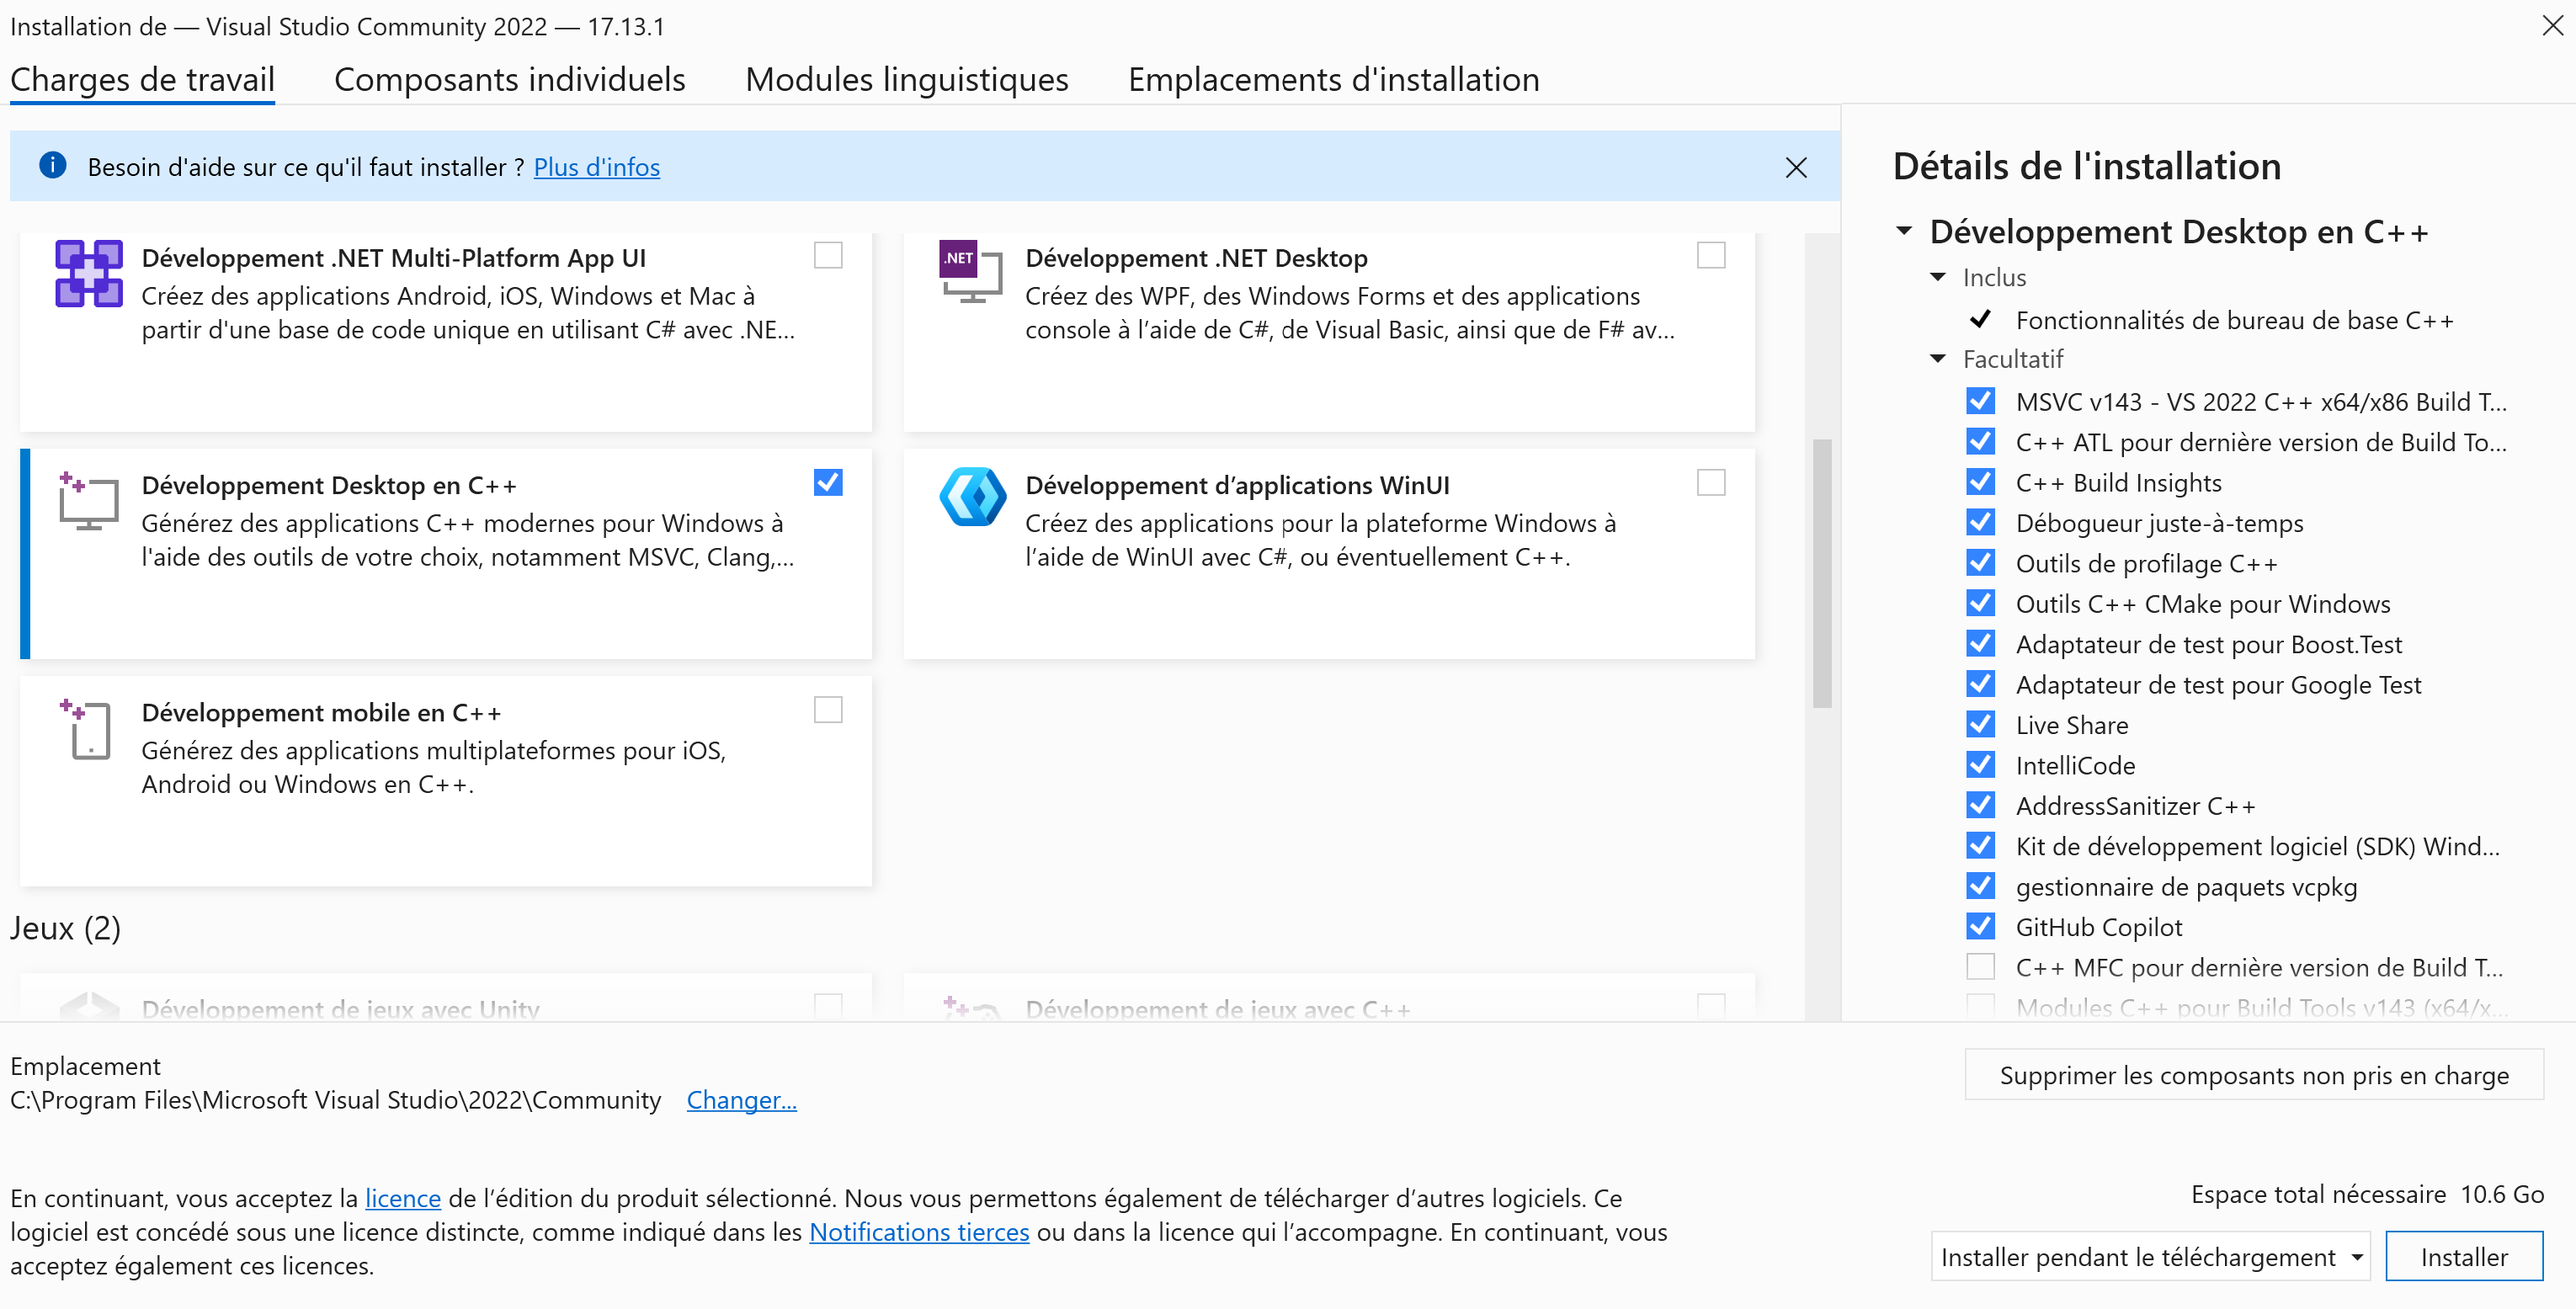
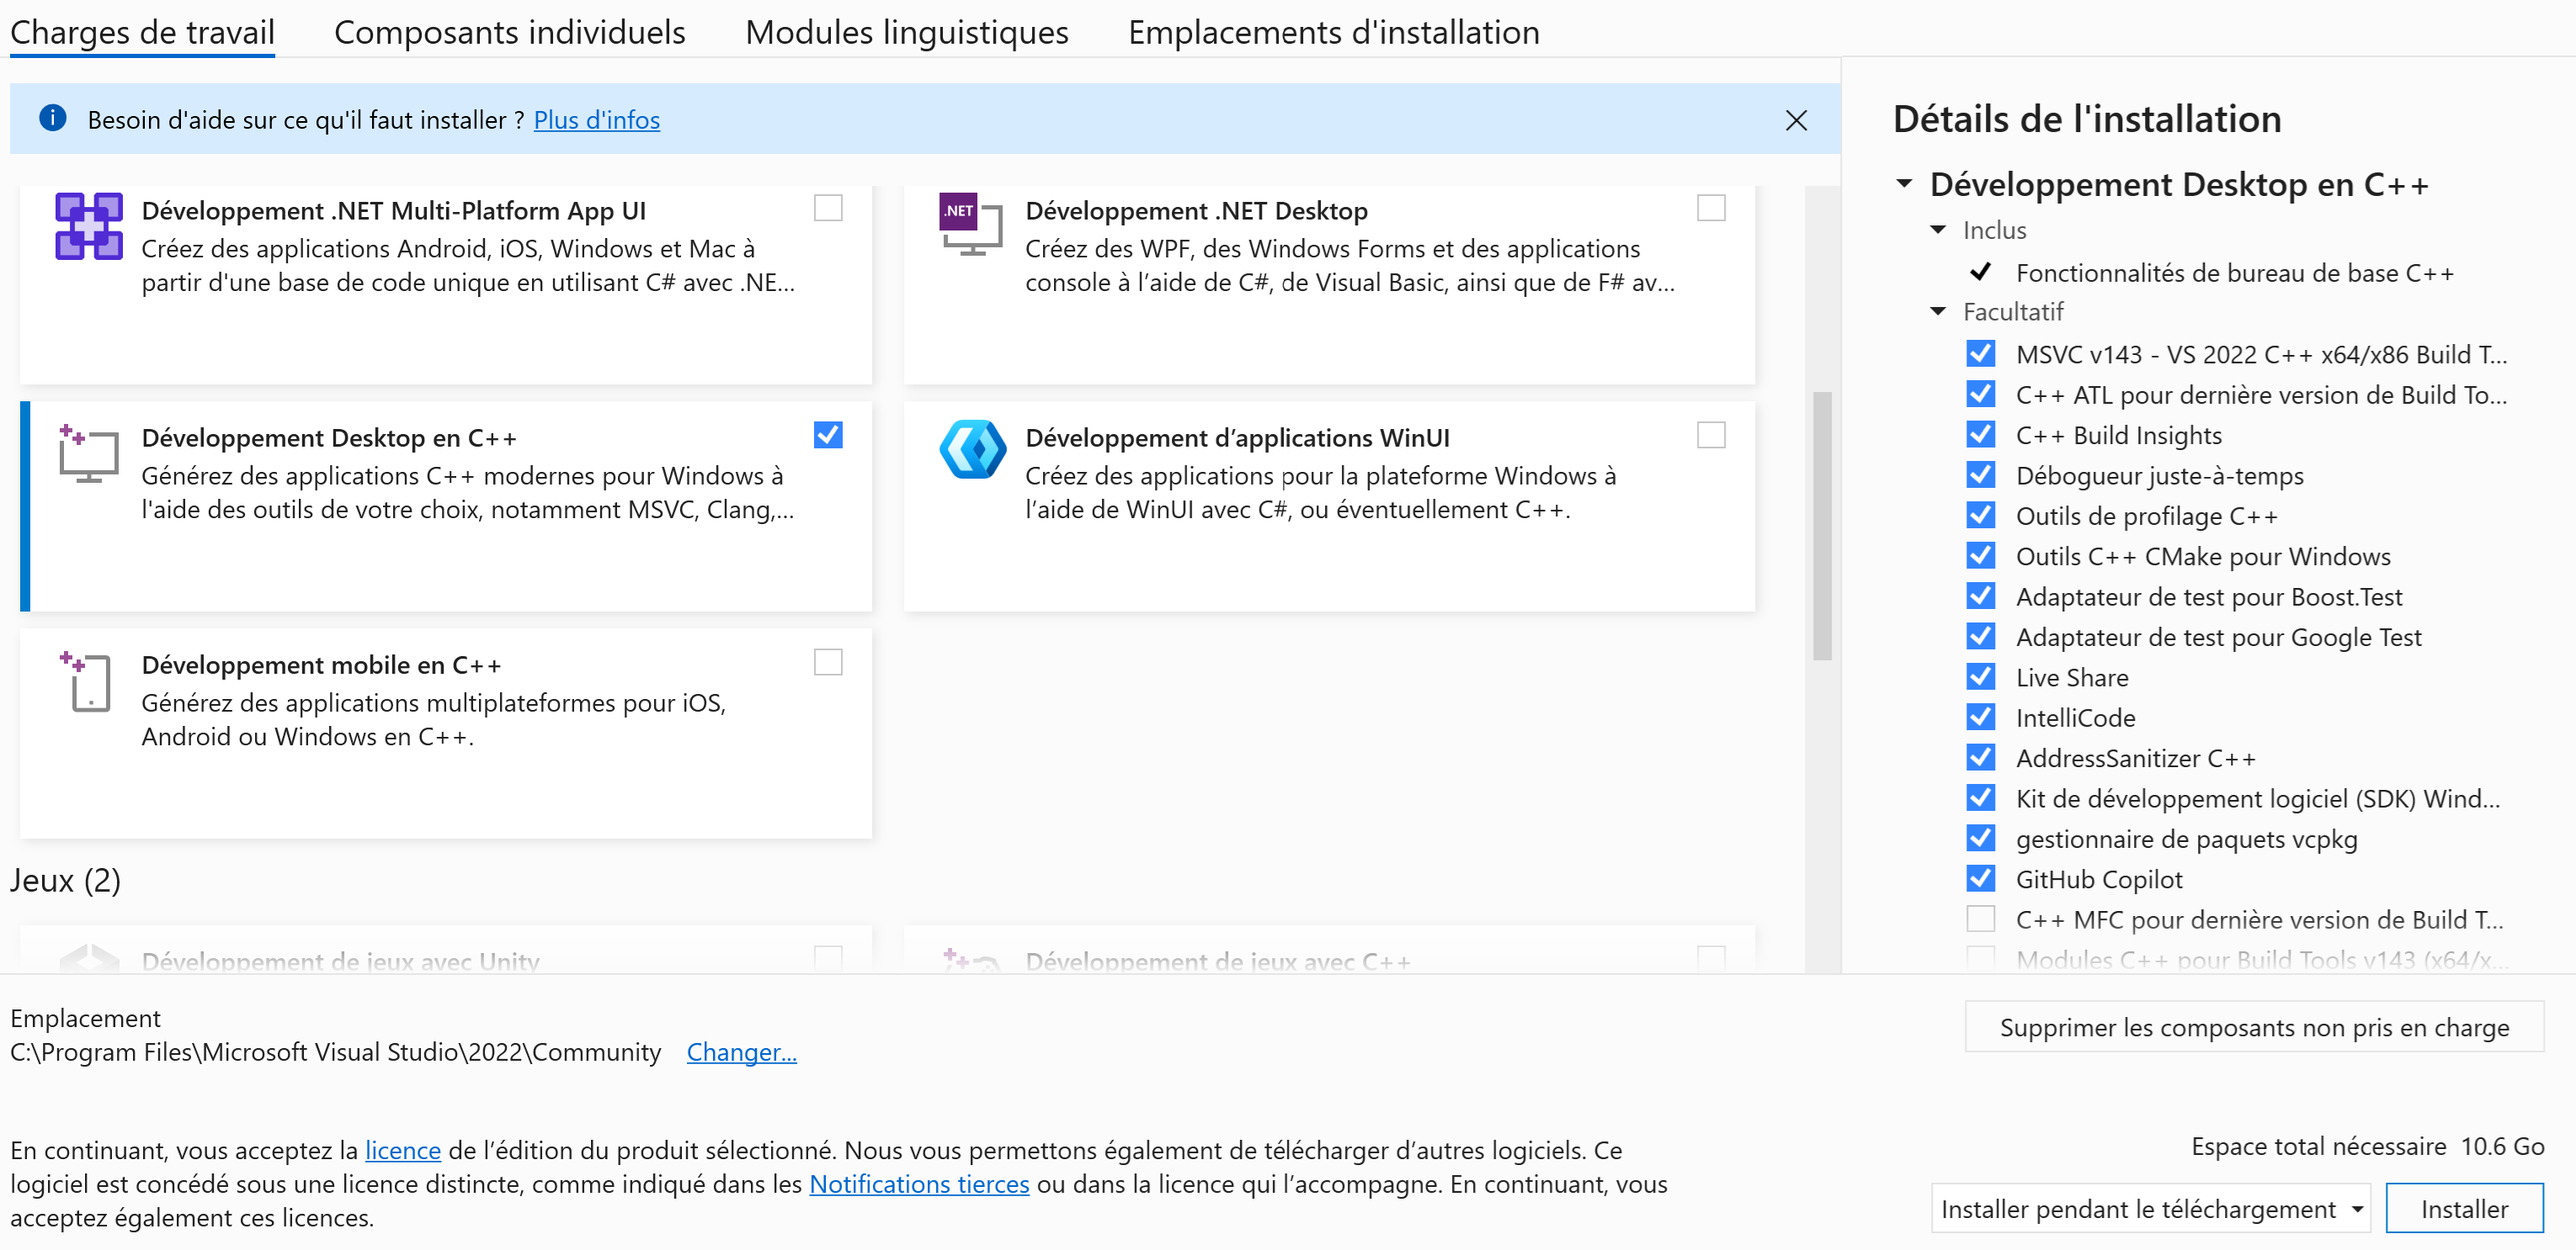
DONE Updated images for VS2026

diff --git a/content/docs/cours/00_Organisation.md b/content/docs/cours/00_Organisation.md
@@ -9,12 +9,14 @@ draft: false
 
 ## Environnement de développement
 Pour le développement, vous pouvez utiliser l'environnement de développement que vous préférez. 
-Cependant, pour des raisons de compatibilité et de support, nous vous recommandons d'utiliser Visual Studio 2022 Community Edition durant ce cours.
+Cependant, pour des raisons de compatibilité et de support, nous vous recommandons d'utiliser Visual Studio 2026 Community Edition durant ce cours.
 
-### Visual Studio 2022 Community Edition
-Vous pouvez télécharger Visual Studio 2022 Community Edition ici : [https://visualstudio.microsoft.com/downloads/](https://visualstudio.microsoft.com/downloads/)
+Vous pouvez aussi utiliser Visual Studio Code si vous le souhaitez, mais il faudra installer et configurer les extensions nécessaires pour le développement en C++.
 
-{{< figure src="images/DownloadVS2022.png#center" width="100%">}}
+### Visual Studio 2026 Community Edition
+Vous pouvez télécharger Visual Studio 2026 Community Edition ici : [https://visualstudio.microsoft.com/downloads/](https://visualstudio.microsoft.com/downloads/)
+
+{{< figure src="images/DownloadVS2026.png#center" width="100%">}}
 
 Durant l'installation, il faut choisir "Développement Desktop en C++" :
 
